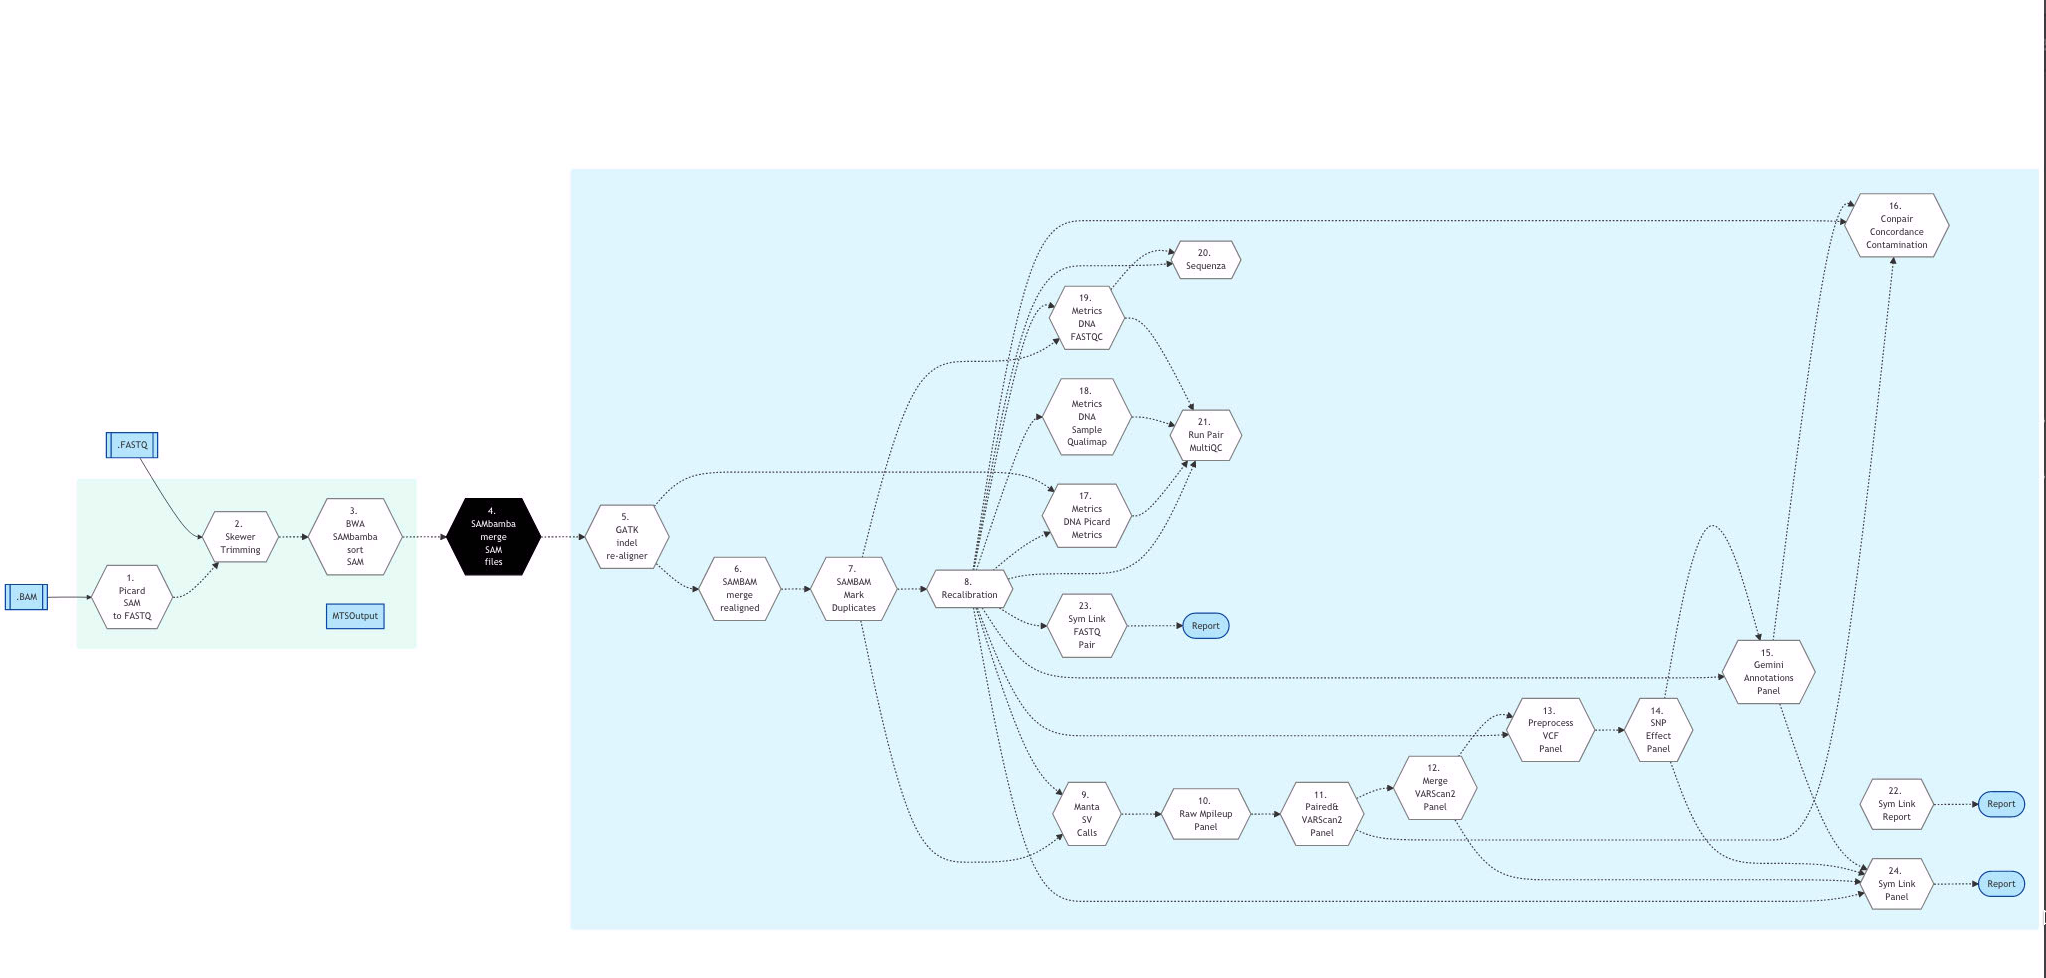
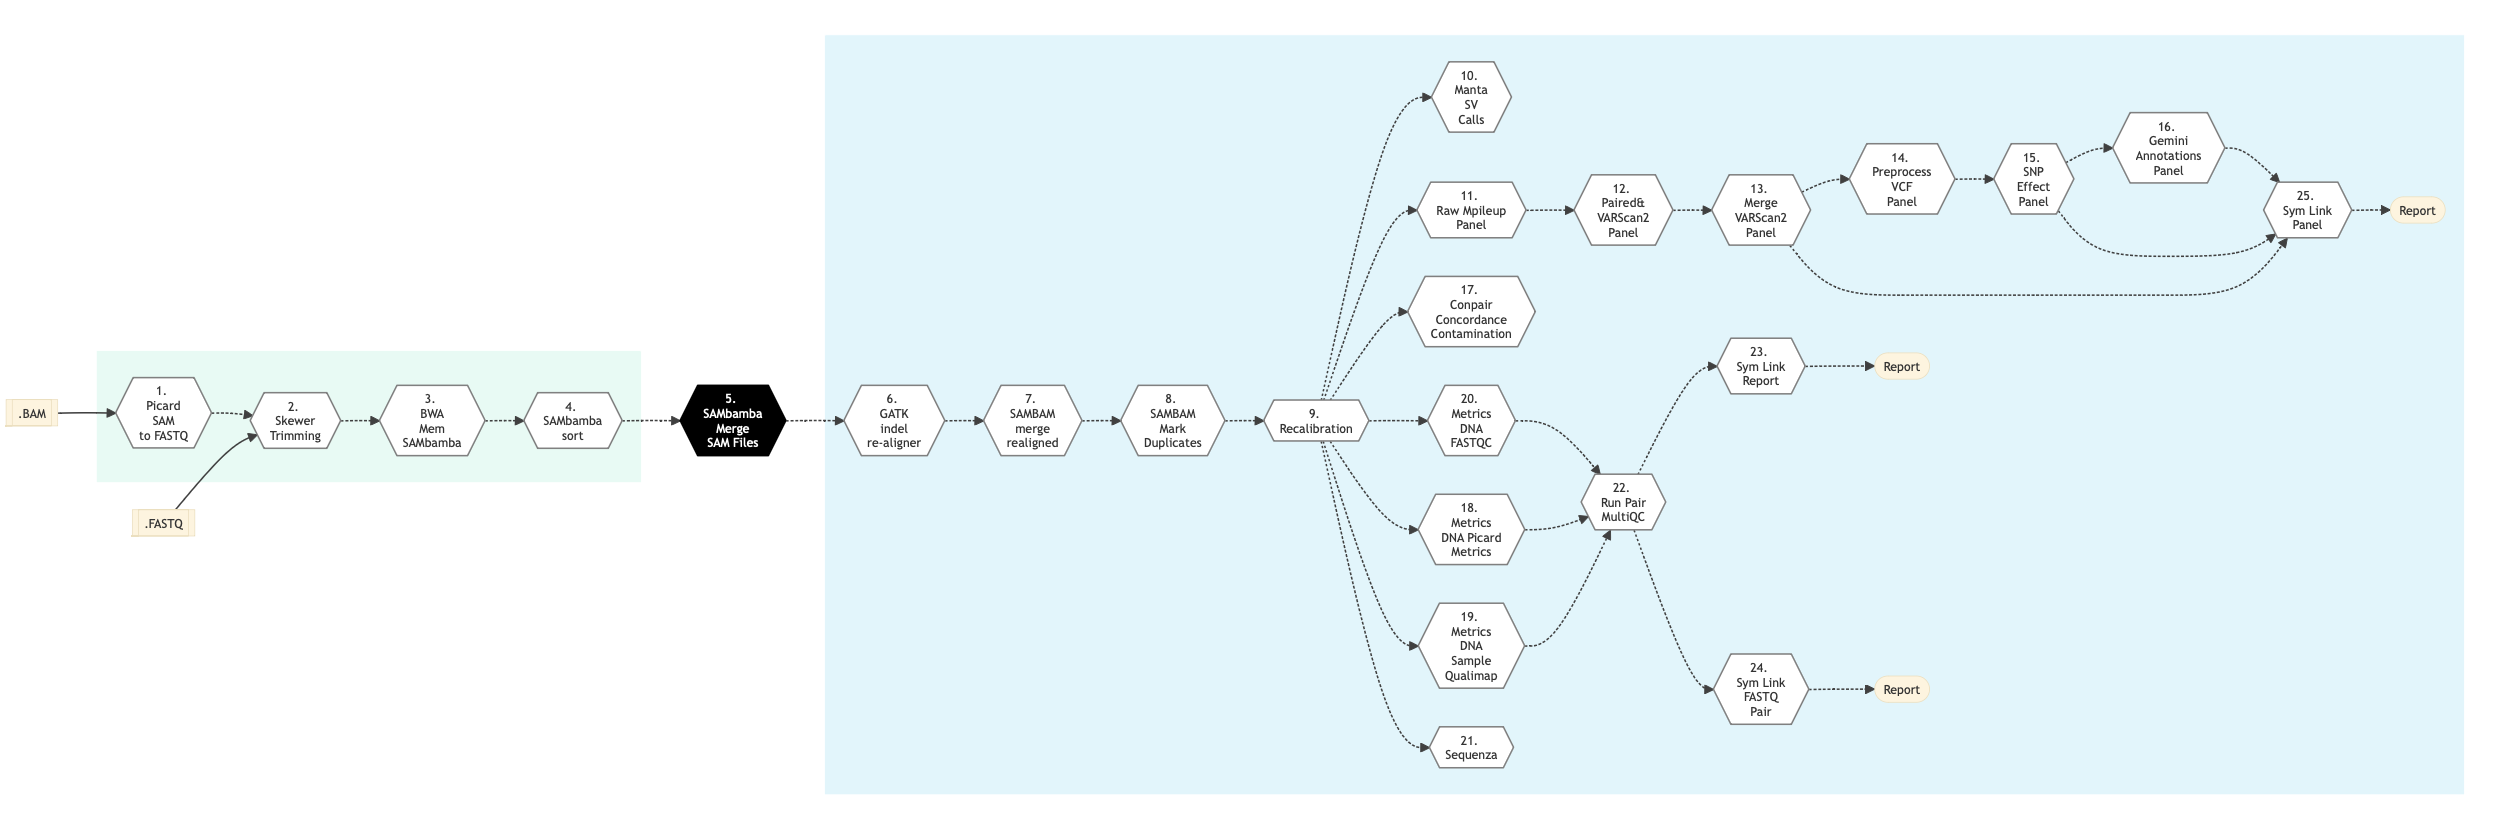
Fix #192 tumor pair pipeline steps and schema updated reviewed draft by Rob

Changed region(s): [[0.0, 0.0303, 1.0, 0.9685], [0.6774, 0.3935, 0.7698, 0.4843]]

diff --git a/docs/source/user_guide/pipelines/gp_tumourpair.rst b/docs/source/user_guide/pipelines/gp_tumourpair.rst
@@ -190,80 +190,84 @@ The table below shows various steps that constitute the Tumor Pair Pipeline.
 +----+-----------------------------------------+---------------------------------------+---------------------------------+
 | 3. | |bwa_mem_sambamba_sort_sam|             | |bwa_mem_sambamba_sort_sam|           | |bwa_mem_sambamba_sort_sam|     |
 +----+-----------------------------------------+---------------------------------------+---------------------------------+
-| 4. | |sambamba_merge_sam_files|              | |sambamba_merge_sam_files|            | |sambamba_merge_sam_files|      |
+| 4. | |sambamba_sort|                         | |sambamba_sort|                       | |sambamba_sort|                 |
 +----+-----------------------------------------+---------------------------------------+---------------------------------+
-| 5. | |gatk_indel_realigner|                  | |gatk_indel_realigner|                | |gatk_indel_realigner|          |
+| 5. | |sambamba_merge_sam_files|              | |sambamba_merge_sam_files|            | |sambamba_merge_sam_files|      |
 +----+-----------------------------------------+---------------------------------------+---------------------------------+
-| 6. | |sambamba_merge_realigned|              | |sambamba_merge_realigned|            | |sambamba_merge_realigned|      |
+| 6. | |gatk_indel_realigner|                  | |gatk_indel_realigner|                | |gatk_indel_realigner|          |
 +----+-----------------------------------------+---------------------------------------+---------------------------------+
-| 7. | |sambamba_mark_duplicates|              | |sambamba_mark_duplicates|            | |sambamba_mark_duplicates|      |
+| 7. | |sambamba_merge_realigned|              | |sambamba_merge_realigned|            | |sambamba_merge_realigned|      |
 +----+-----------------------------------------+---------------------------------------+---------------------------------+
-| 8. | |recalibration|                         | |recalibration|                       | |recalibration|                 |
+| 8. | |sambamba_mark_duplicates|              | |sambamba_mark_duplicates|            | |sambamba_mark_duplicates|      |
 +----+-----------------------------------------+---------------------------------------+---------------------------------+
-| 9. | |conpair_concordance_contamination|     | |manta_sv_calls|                      | |strelka2_paired_somatic|       |
+| 9. | |recalibration|                         | |recalibration|                       | |recalibration|                 |
 +----+-----------------------------------------+---------------------------------------+---------------------------------+
-| 10.| |metrics_dna_picard_metrics|            | |rawmpileup_panel|                    | |strelka2_paired_germline|      |
+| 10.| |conpair_concordance_contamination|     | |manta_sv_calls|                      | |manta_sv_calls|                |
 +----+-----------------------------------------+---------------------------------------+---------------------------------+
-| 11.| |metrics_dna_sample_qualimap|           | |paired_varscan2_panel|               | |metrics_dna_picard_metrics|    |
+| 11.| |metrics_dna_picard_metrics|            | |rawmpileup_panel|                    | |strelka2_paired_somatic|       |
 +----+-----------------------------------------+---------------------------------------+---------------------------------+
-| 12.| |metrics_dna_fastqc|                    | |merge_varscan2_panel|                | |sequenza|                      |
+| 12.| |metrics_dna_sample_qualimap|           | |paired_varscan2_panel|               | |strelka2_paired_germline|      |
 +----+-----------------------------------------+---------------------------------------+---------------------------------+
-| 13.| |sequenza|                              | |preprocess_vcf_panel|                | |delly_call_filter|             |
+| 13.| |metrics_dna_fastqc|                    | |merge_varscan2_panel|                | |metrics_dna_picard_metrics|    |
 +----+-----------------------------------------+---------------------------------------+---------------------------------+
-| 14.| |strelka2_paired_somatic|               | |snp_effect_panel|                    | |delly_sv_annotation|           |
+| 14.| |sequenza|                              | |preprocess_vcf_panel|                | |sequenza|                      |
 +----+-----------------------------------------+---------------------------------------+---------------------------------+
-| 15.| |strelka2_paired_germline|              | |gemini_annotations_panel|            | |manta_sv_calls|                |
+| 15.| |manta_sv_calls|                        | |snp_effect_panel|                    | |delly_call_filter|             |
 +----+-----------------------------------------+---------------------------------------+---------------------------------+
-| 16.| |purple|                                | |conpair_concordance_contamination|   | |manta_sv_annotation|           |
+| 16.| |strelka2_paired_somatic|               | |gemini_annotations_panel|            | |delly_sv_annotation|           |
 +----+-----------------------------------------+---------------------------------------+---------------------------------+
-| 17.| |rawmpileup|                            | |metrics_dna_picard_metrics|          | |lumpy_paired_sv|               |
+| 17.| |strelka2_paired_germline|              | |conpair_concordance_contamination|   | |manta_sv_annotation|           |
 +----+-----------------------------------------+---------------------------------------+---------------------------------+
-| 18.| |paired_varscan2|                       | |metrics_dna_sample_qualimap|         | |lumpy_sv_annotation|           |
+| 18.| |strelka2_paired_germline_snpEff|       | |metrics_dna_picard_metrics|          | |lumpy_paired_sv|               |
 +----+-----------------------------------------+---------------------------------------+---------------------------------+
-| 19.| |merge_varscan2|                        | |metrics_dna_fastqc|                  | |wham_call_sv|                  |
+| 19.| |purple|                                | |metrics_dna_sample_qualimap|         | |lumpy_sv_annotation|           |
 +----+-----------------------------------------+---------------------------------------+---------------------------------+
-| 20.| |paired_mutect2|                        | |sequenza|                            | |wham_sv_annotation|            |
+| 20.| |rawmpileup|                            | |metrics_dna_fastqc|                  | |wham_call_sv|                  |
 +----+-----------------------------------------+---------------------------------------+---------------------------------+
-| 21.| |merge_mutect2|                         | |run_pair_multiqc|                    | |cnvkit_batch|                  |
+| 21.| |paired_varscan2|                       | |sequenza|                            | |wham_sv_annotation|            |
 +----+-----------------------------------------+---------------------------------------+---------------------------------+
-| 22.| |vardict_paired|                        | |sym_link_report|                     | |cnvkit_sv_annotation|          |
+| 22.| |merge_varscan2|                        | |run_pair_multiqc|                    | |cnvkit_batch|                  |
 +----+-----------------------------------------+---------------------------------------+---------------------------------+
-| 23.| |merge_filter_paired_vardict|           | |sym_link_fastq_pair|                 | |scones|                        |
+| 23.| |paired_mutect2|                        | |sym_link_report|                     | |cnvkit_sv_annotation|          |
 +----+-----------------------------------------+---------------------------------------+---------------------------------+
-| 24.| |ensemble_somatic|                      | |sym_link_panel|                      | |svaba_assemble|                |
+| 24.| |merge_mutect2|                         | |sym_link_fastq_pair|                 | |svaba_assemble|                |
 +----+-----------------------------------------+---------------------------------------+---------------------------------+
-| 25.| |gatk_variant_annotator_somatic|        |                                       | |svaba_sv_annotation|           |
-+----+-----------------------------------------+                                       +---------------------------------+
-| 26.| |merge_gatk_variant_annotator_somatic|  |                                       | |ensemble_metasv_somatic|       |
-+----+-----------------------------------------+                                       +---------------------------------+
-| 27.| |compute_cancer_effects_somatic|        |                                       | |ensemble_metasv_germline|      |
-+----+-----------------------------------------+                                       +---------------------------------+
-| 28.| |ensemble_somatic_dbnsfp_annotation|    |                                       | |metasv_sv_annotation|          |
-+----+-----------------------------------------+                                       +---------------------------------+
-| 29.| |sample_gemini_annotations_somatic|     |                                       | |sym_link_sequenza|             |
-+----+-----------------------------------------+                                       +---------------------------------+
+| 25.| |vardict_paired|                        | |sym_link_panel|                      | |svaba_sv_annotation|           |
++----+-----------------------------------------+---------------------------------------+---------------------------------+
+| 26.| |merge_filter_paired_vardict|           |                                       | |ensemble_metasv_somatic|       |
++----+-----------------------------------------+---------------------------------------+---------------------------------+
+| 27.| |ensemble_somatic|                      |                                       | |ensemble_metasv_germline|      |
++----+-----------------------------------------+---------------------------------------+---------------------------------+
+| 28.| |gatk_variant_annotator_somatic|        |                                       | |metasv_sv_annotation|          |
++----+-----------------------------------------+---------------------------------------+---------------------------------+
+| 29.| |merge_gatk_variant_annotator_somatic|  |                                       | |sym_link_sequenza|             |
++----+-----------------------------------------+---------------------------------------+---------------------------------+
 | 30.| |ensemble_germline_loh|                 |                                       | |sym_link_metasv|               |
-+----+-----------------------------------------+                                       +---------------------------------+
-| 31.| |gatk_variant_annotator_germline|       |                                       | |sym_link_delly|                |
-+----+-----------------------------------------+                                       +---------------------------------+
-| 32.| |merge_gatk_variant_annotator_germline| |                                       | |sym_link_manta|                |
-+----+-----------------------------------------+                                       +---------------------------------+
-| 33.| |compute_cancer_effects_germline|       |                                       | |sym_link_lumpy|                |
-+----+-----------------------------------------+                                       +---------------------------------+
-| 34.| |ensemble_germline_dbnsfp_annotation|   |                                       | |sym_link_wham|                 |
-+----+-----------------------------------------+                                       +---------------------------------+
-| 35.| |sample_gemini_annotations_germline|    |                                       | |sym_link_cnvkit|               |
-+----+-----------------------------------------+                                       +---------------------------------+
-| 36.| |run_pair_multiqc|                      |                                       |                                 |
-+----+-----------------------------------------+                                       +                                 +
-| 37.| |sym_link_fastq_pair|                   |                                       |                                 |
-+----+-----------------------------------------+                                       +                                 +
-| 38.| |sym_link_final_bam|                    |                                       |                                 |
-+----+-----------------------------------------+                                       +                                 +
-| 39.| |sym_link_report|                       |                                       |                                 |
-+----+-----------------------------------------+                                       +                                 +
-| 40.| |sym_link_ensemble|                     |                                       |                                 |
 +----+-----------------------------------------+---------------------------------------+---------------------------------+
+| 31.| |gatk_variant_annotator_germline|       |                                       | |sym_link_delly|                |
++----+-----------------------------------------+---------------------------------------+---------------------------------+
+| 32.| |merge_gatk_variant_annotator_germline| |                                       | |sym_link_manta|                |
++----+-----------------------------------------+---------------------------------------+---------------------------------+
+| 33.| |cnvkit_batch|                          |                                       | |sym_link_lumpy|                |
++----+-----------------------------------------+---------------------------------------+---------------------------------+
+| 34.| |filter_ensemble_germline|              |                                       | |sym_link_wham|                 |
++----+-----------------------------------------+---------------------------------------+---------------------------------+
+| 35.| |filter_ensemble_somatic|               |                                       | |sym_link_cnvkit|               |
++----+-----------------------------------------+---------------------------------------+---------------------------------+
+| 36.| |report_cpsr|                           |                                       |                                 |
++----+-----------------------------------------+---------------------------------------+---------------------------------+
+| 37.| |report_pcgr|                           |                                       |                                 |
++----+-----------------------------------------+---------------------------------------+---------------------------------+
+| 38.| |run_pair_multiqc|                      |                                       |                                 |
++----+-----------------------------------------+---------------------------------------+---------------------------------+
+| 39.| |sym_link_fastq_pair|                   |                                       |                                 |
++----+-----------------------------------------+---------------------------------------+---------------------------------+
+| 40.| |sym_link_final_bam|                    |                                       |                                 |
++----+-----------------------------------------+---------------------------------------+---------------------------------+
+| 41.| |sym_link_report|                       |                                       |                                 |
++----+-----------------------------------------+---------------------------------------+---------------------------------+
+| 42.| |sym_link_ensemble|                     |                                       |                                 |
++----+-----------------------------------------+-------------------------------------------------------------------------+
 
 ----
 
@@ -288,6 +292,7 @@ For the latest implementation and usage details refer to the latest `pipeline im
 .. |picard_sam_to_fastq| replace:: `Picard SAM to FastQ`_
 .. |skewer_trim| replace:: `Skewer Trimming`_
 .. |bwa_mem_sambamba_sort_sam| replace:: `BWA Mem SAMBAMBA Sort SAM`_
+.. |sambamba_sort| replace:: `SAMbamba Sort`_
 .. |sambamba_merge_sam_files| replace:: `SamBamba Merge Files`_
 .. |gatk_indel_realigner| replace:: `GATK InDel Realigner`_
 .. |sambamba_merge_realigned| replace:: `SamBamba Merge Realigned`_
@@ -300,6 +305,7 @@ For the latest implementation and usage details refer to the latest `pipeline im
 .. |sequenza| replace:: `Sequenza Step`_
 .. |strelka2_paired_somatic| replace:: `Strelka2 Paired Somatic`_
 .. |strelka2_paired_germline| replace:: `Strelka2 Paired Germline`_
+.. |strelka2_paired_germline_snpEff| replace:: `Strelka2 Paired Germline SnpEff`_
 .. |purple| replace:: `Purple Step`_
 .. |rawmpileup| replace:: `Raw Mpileup`_
 .. |paired_varscan2| replace:: `Paired Var Scan 2`_
@@ -355,6 +361,10 @@ For the latest implementation and usage details refer to the latest `pipeline im
 .. |sym_link_lumpy| replace:: `Sym Link Lumpy`_
 .. |sym_link_wham| replace:: `Sym Link Wham`_
 .. |sym_link_cnvkit| replace:: `Sym Link CNVKit`_
+.. |filter_ensemble_germline| replace:: `Filter Ensemble Germline`_
+.. |filter_ensemble_somatic| replace:: `Filter Ensemble Somatic`_
+.. |report_cpsr| replace:: `Report CPSR`_
+.. |report_pcgr| replace:: `Report PCGR`_
 
 .. Following are the links used in the text above
 
